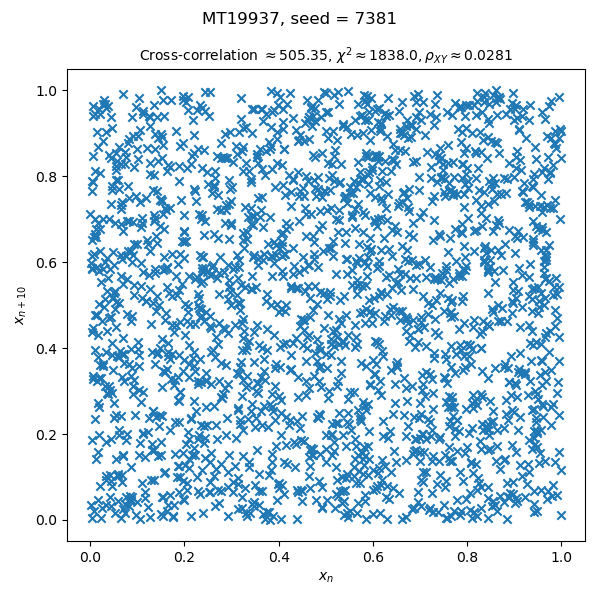
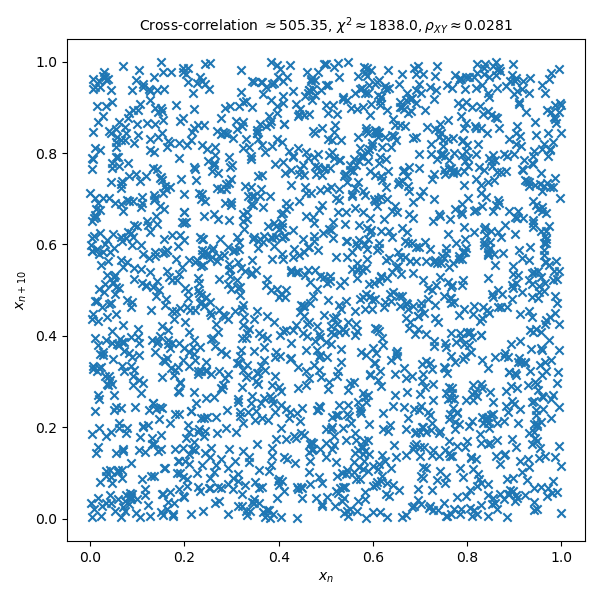
Removed titles from graphs
To add to figures

diff --git a/Lab 1/rng_comp.py b/Lab 1/rng_comp.py
@@ -79,37 +79,34 @@ plt.figure(figsize=(6, 6))
 plt.scatter(x1, x2, marker="x")
 plt.xlabel("Seed = 6, $\chi^2 = {}$".format(pcg64chi1))
 plt.ylabel("Seed = 15832, $\chi^2 = {}$".format(pcg64chi2))
-plt.title("PCG64\n")
 plt.tight_layout()
-plt.savefig(fname="IMAGES/PCG64-6-15832")
+plt.savefig(fname="PCG64-6-15832")
 
 # Shifted value comparison ( sequential )
 plt.figure(figsize=(6, 6))
 plt.scatter(x1, x15, marker="x")
 plt.xlabel("$x_n$")
 plt.ylabel("$x_{n+10}$")
-plt.suptitle("PCG64, seed = 6")
 plt.title(
     r"Cross-correlation $\approx %1.2f$, $\chi^2 \approx %s, \rho_{XY}\approx %1.4f$"
     % (correl1, pcg64chi1, pearsoncoeff1),
     fontsize=10,
 )
 plt.tight_layout()
-plt.savefig(fname="IMAGES/PCG64-6")
+plt.savefig(fname="PCG64-6")
 
 # Shifted value comparison ( sequential )
 plt.figure(figsize=(6, 6))
 plt.scatter(x2, x25, marker="x")
 plt.xlabel("$x_n$")
 plt.ylabel("$x_{n+10}$")
-plt.suptitle("PCG64, seed = 15832")
 plt.title(
     r"Cross-correlation $\approx %1.2f$, $\chi^2 \approx %s, \rho_{XY}\approx %1.4f$"
     % (correl2, pcg64chi2, pearsoncoeff2),
     fontsize=10,
 )
 plt.tight_layout()
-plt.savefig(fname="IMAGES/PCG64-15832")
+plt.savefig(fname="PCG64-15832")
 
 
 #####################################################
@@ -135,9 +132,8 @@ plt.figure(figsize=(6, 6))
 plt.scatter(x1, y1, marker="x")
 plt.xlabel("PCG64, seed = 6, $\chi^2 = {}$".format(pcg64chi1))
 plt.ylabel("MT19937, seed = 6, $\chi^2 = {}$".format(mt19937chi1))
-plt.title("PCG64-MT19937-6\n")
 plt.tight_layout()
-plt.savefig(fname="IMAGES/PCG64-MT19937-6")
+plt.savefig(fname="PCG64-MT19937-6")
 
 #####################################################
 # 
@@ -185,9 +181,8 @@ plt.figure(figsize=(6, 6))
 plt.scatter(y1, y2, marker="x")
 plt.xlabel("Seed = 5255, $\chi^2 = {}$".format(mt19937chi1))
 plt.ylabel("Seed = 7381, $\chi^2 = {}$".format(mt19937chi2))
-plt.title("MT19937\n")
 plt.tight_layout()
-plt.savefig(fname="IMAGES/MT19937-5525-7381")
+plt.savefig(fname="MT19937-5525-7381")
 
 
 ################################################
@@ -198,28 +193,26 @@ plt.figure(figsize=(6, 6))
 plt.scatter(y1, y15, marker="x")
 plt.xlabel("$x_n$")
 plt.ylabel("$x_{n+10}$")
-plt.suptitle("MT19937, seed = 5255")
 plt.title(
     r"Cross-correlation $\approx %1.2f$, $\chi^2 \approx %s, \rho_{XY}\approx %1.4f$"
     % (correl3, mt19937chi1, pearsoncoeff3),
     fontsize=10,
 )
 plt.tight_layout()
-plt.savefig(fname="IMAGES/MT19937-5255")
+plt.savefig(fname="MT19937-5255")
 
 
 plt.figure(figsize=(6, 6))
 plt.scatter(y2, y25, marker="x")
 plt.xlabel("$x_n$")
 plt.ylabel("$x_{n+10}$")
-plt.suptitle("MT19937, seed = 7381")
 plt.title(
     r"Cross-correlation $\approx %1.2f$, $\chi^2 \approx %s, \rho_{XY}\approx %1.4f$"
     % (correl4, mt19937chi2, pearsoncoeff4),
     fontsize=10,
 )
 plt.tight_layout()
-plt.savefig(fname="IMAGES/MT19937-7381")
+plt.savefig(fname="MT19937-7381")
 
 ################################################
 # Time taken for each random generator
@@ -293,14 +286,13 @@ ax2.text(shift[5], correlation2.max() - 5, "Max = {}".format(np.round(correlatio
 ax2.hlines(np.mean(correlation2[1:1000]),0,1000,"r","-.",
            label="$\mu = {}$,\n$\sigma = {}$,\n$\Delta = {}$"
            .format(np.round(np.mean(correlation2[1:1000]), 2), std2, range2))
-fig.suptitle("Seed = 2010")
 ax2.set_xlabel("Shifted index $i$")
 
 fig.supylabel("Cross-correlation between $x_n~&~x_{n+i}$")
 ax1.legend()
 ax2.legend()
 plt.tight_layout()
-plt.savefig("IMAGES/Correlation-shift-comparison")
+plt.savefig("Correlation-shift-comparison")
 
 ################################################
 # Comparing shifted value vs pearson values
@@ -324,10 +316,9 @@ ax2.hlines(np.mean(pearsoncoeff6[1:1000]),0,1000,"r","--",
            label="$\mu = {}$,\n$\sigma = {}$,\n$\Delta = {}$"
            .format(np.round(np.mean(pearsoncoeff6[1:1000])*-1, 2), pearson_std2, pearson_range2))
 
-fig2.suptitle("Seed = 2010")
 ax2.set_xlabel("Shifted index $i$")
 fig2.supylabel(r"$\rho_{XY}$ between $x_n~&~x_{n+i}$")
 ax1.legend()
 ax2.legend()
 plt.tight_layout()
-plt.savefig("IMAGES/Pearson-shift-comparison")
+plt.savefig("Pearson-shift-comparison")

diff --git a/Lab 1/partitioned.py b/Lab 1/partitioned.py
@@ -48,7 +48,6 @@ def simple_partition(N, M, time):
 
     plt.xlabel("Time (arb.)")
     plt.ylabel("Number of particles")
-    plt.suptitle('Lecture example, PCG64')
     plt.legend()
     plt.tight_layout()
     print(r"Simulation time = ${}ms$".format(elapsed_time))
@@ -91,17 +90,16 @@ def simple_partition_PROB(N, M, time, prob):
     plt.plot(tarray, Rsumarray, label = 'RHS')
     plt.xlabel("Time (arb.)")
     plt.ylabel("Number of particles")
-    plt.suptitle('MT19937')
     plt.title('$P(LHS \Rightarrow RHS) = {}$'.format(prob))
     plt.hlines(int(prob*N),0,time,'lightgrey','--')
     plt.hlines(int((1-prob)*N),0,time,'lightgrey','--')
     plt.legend()
     plt.tight_layout()
     #plt.show()
-    plt.savefig(fname = "Lab 1/IMAGES/MT19937_{}".format(int(prob*100)))
+    plt.savefig(fname = "Lab 1/PCG64_{}".format(int(prob*100)))
     print(r"Simulation time = ${}ms$".format(elapsed_time))
 
-rng = Generator(MT19937())
+rng = Generator(PCG64())
 prob = 0.25
 while prob < 1:
     simple_partition_PROB(1000,1000,10000,prob)
